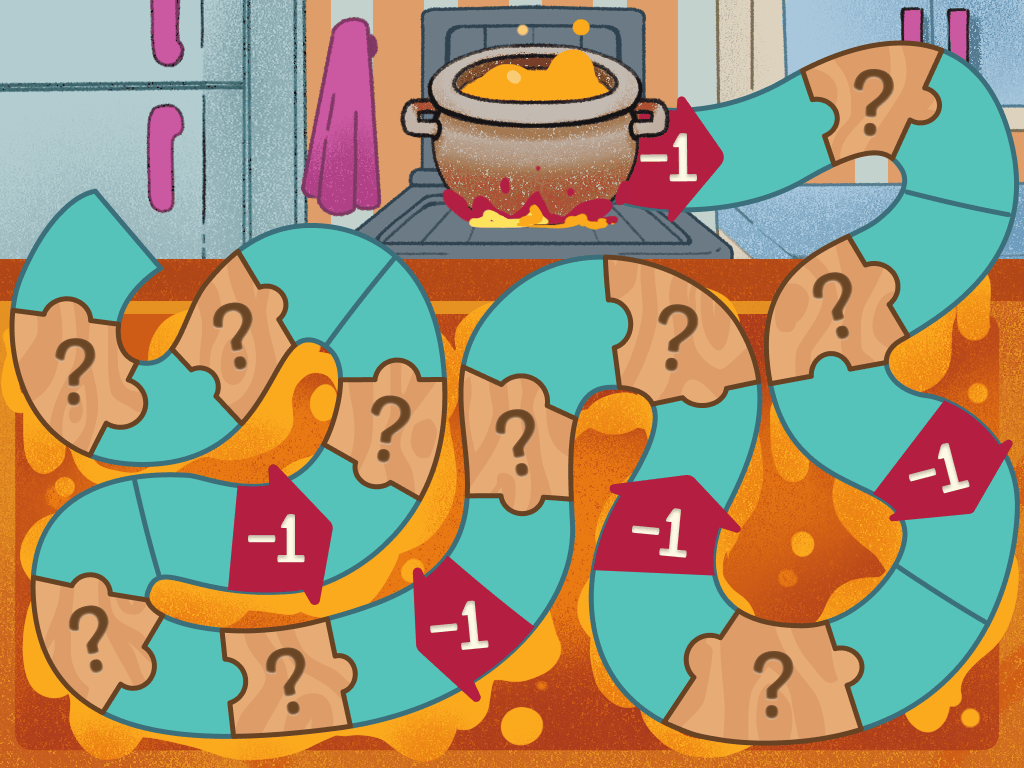
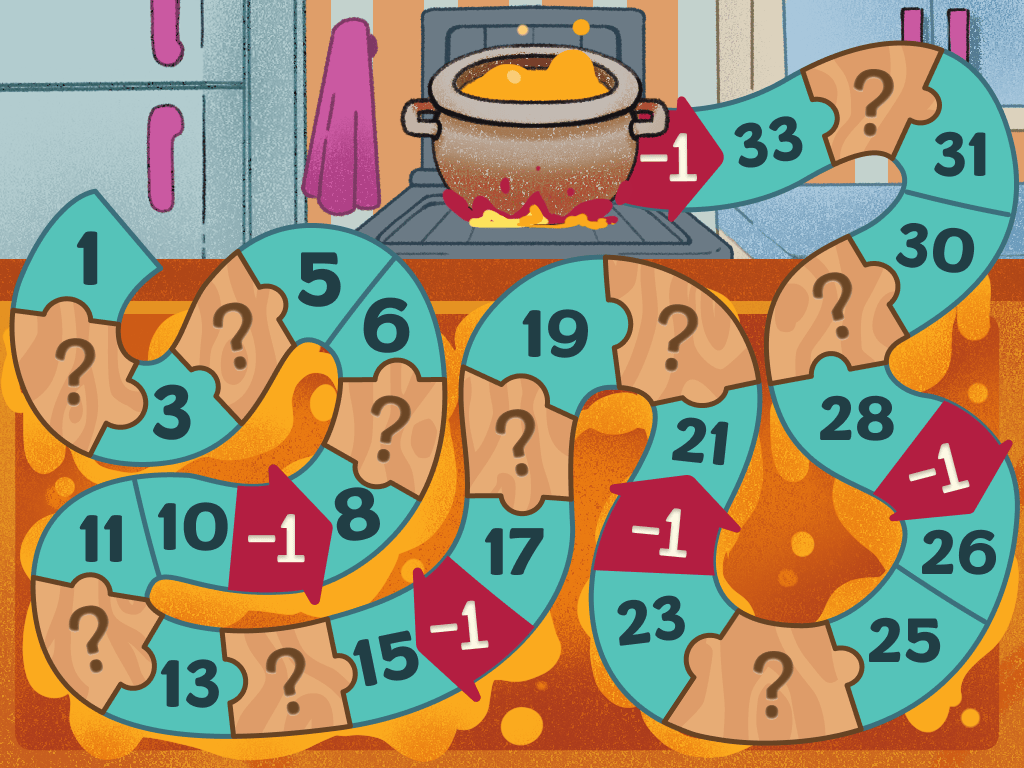
icpc

diff --git a/ic-pc/main.js b/ic-pc/main.js
@@ -48,7 +48,7 @@ const boardPositions = [
 ];
 
 const offsetX = -60;
-const offsetY = -114;
+const offsetY = -94;
 
 var rollingD6 = false;
 
@@ -202,7 +202,31 @@ function setPlayerSpoonsClasses() {
     if(playersSpoons[i] != 99) {
       playerElement.classList.add(`spoon-skin-${playersSpoons[i]}`);
     } else {
-      playerElement.classList.add('hidden')
+      playerElement.classList.add('hidden');
+    }
+  }
+  
+  addBlackWhite();
+}
+
+function addBlackWhite() {
+  document.getElementById('board').classList.add('black-white');
+  for (let i=0; i<4; i++) {
+    const playerElement = document.getElementById(`player-spoon-${i}`);
+    if(playersSpoons[i] != 99) {
+      playerElement.classList.add('black-white');
+    }
+  }
+
+  document.getElementById(`player-spoon-${activePlayer}`).classList.remove('black-white');
+}
+
+function removeBlackWhite() {
+  document.getElementById('board').classList.remove('black-white');
+  for (let i=0; i<4; i++) {
+    const playerElement = document.getElementById(`player-spoon-${i}`);
+    if(playersSpoons[i] != 99) {
+      playerElement.classList.remove('black-white');
     }
   }
 }
@@ -272,6 +296,7 @@ async function rollAD6(playerRollingTheD6) {
     await waitTime(changeNumberTime);
     showANumberOnD6(rolledNumber);
 
+    removeBlackWhite();
     moveNumberOfSquares(rolledNumber, playerRollingTheD6);
   }
 }
@@ -282,6 +307,7 @@ async function moveNumberOfSquares(numberOfSquares, playerNumber, specialSound =
 
   if(lastSquare > squareToGo) {
     const playerElementId = `player-spoon-${playerNumber}`;
+    document.getElementById(playerElementId).classList.remove('same-square');
     
     for(let i = 0; i<numberOfSquares; i++) {
       resetAnimation(playerElementId, 'grow-and-shrink');
@@ -293,6 +319,12 @@ async function moveNumberOfSquares(numberOfSquares, playerNumber, specialSound =
 
       const from = isInStartingPosition ? startPositions[playerNumber] : boardPositions[fromSquare];
       const to = boardPositions[toSquare];
+
+      if(!specialSound){
+        playSound(`step${i+1}`);
+      } else {
+        playSound('progredir');
+      }
       
       await move(
         playerElementId,
@@ -302,11 +334,7 @@ async function moveNumberOfSquares(numberOfSquares, playerNumber, specialSound =
         isInStartingPosition
       );
 
-      if(!specialSound){
-        playSound(`step${i+1}`);
-      } else {
-        playSound('progredir');
-      }
+      
     }
     playersSquarePositions[playerNumber] += numberOfSquares;
     checkSquareAction(playersSquarePositions[playerNumber]);
@@ -327,6 +355,8 @@ async function moveMinusOneSquare(playerNumber) {
   const from = boardPositions[fromSquare];
   const to = boardPositions[toSquare];
   
+  playSound('retroceder');
+
   await move(
     playerElementId,
     from,
@@ -335,7 +365,7 @@ async function moveMinusOneSquare(playerNumber) {
     false
   );
 
-  playSound('retroceder');
+  
   
   playersSquarePositions[playerNumber] -= 1;
   checkSquareAction(playersSquarePositions[playerNumber]);
@@ -378,6 +408,18 @@ function endGame() {
 function nextPlayer() {
   const numberOfPlayers = getNumberOfPlayers();
 
+  
+  let samePosition = false;
+  for(let i=0; i<4; i++) {
+    if(activePlayer !== i) {
+      if(playersSquarePositions[activePlayer] === playersSquarePositions[i]) {
+        samePosition = true;
+        document.getElementById(`player-spoon-${i}`).classList.add('same-square');
+        document.getElementById(`player-spoon-${activePlayer}`).classList.add('same-square');
+      }
+    }
+  }
+
   if(numberOfPlayers > activePlayer + 1){
     activePlayer ++
   } else {
@@ -385,6 +427,7 @@ function nextPlayer() {
   }
 
   rollingD6 = false;
+  addBlackWhite();
 }
 
 async function move(elementId, from, to, time, isInStartingPosition) {

diff --git a/ic-pc/main.css b/ic-pc/main.css
@@ -344,6 +344,17 @@ button:focus {
   width: 1024px;
   height: 768px;
   overflow: hidden;
+}
+
+.black-white{
+  filter: grayscale(1);
+}
+
+#board{
+  position: absolute;
+  width: 1024px;
+  height: 768px;
+  overflow: hidden;
   background-image: url(img/4-tabuleiro.png);
 }
 
@@ -355,6 +366,25 @@ button:focus {
   background-size: 256px;
   background-image: url(img/char1.png);
 }
+
+.same-square{
+  transform: scale(0.76);
+}
+
+#player-spoon-0.same-square{
+  margin-left: -50px;
+}
+#player-spoon-1.same-square{
+  margin-left: 50px;
+}
+#player-spoon-2.same-square{
+  margin-top: -50px;
+}
+#player-spoon-3.same-square{
+  margin-top: 50px;
+}
+
+
 
 .spoon-skin-0{
   background-position: 0px 0px;

diff --git a/ic-pc/index.html b/ic-pc/index.html
@@ -35,6 +35,7 @@
       </div>
       
       <div id="page-container-jogo" class="container-jogo page">
+        <div id="board"></div>
         <div id="player-spoon-0" class="player-spoon"></div>
         <div id="player-spoon-1" class="player-spoon"></div>
         <div id="player-spoon-2" class="player-spoon"></div>

diff --git a/ic-pc/anim.css b/ic-pc/anim.css
@@ -72,6 +72,11 @@
 @keyframes growAndShrink {
   from {
     transform: scale(1);
+    z-index: 0;
+  }
+
+  1% {
+    z-index: 10;
   }
 
   50% {
@@ -80,6 +85,7 @@
 
   to {
     transform: scale(1);
+    z-index: 0;
   }
 }
 
